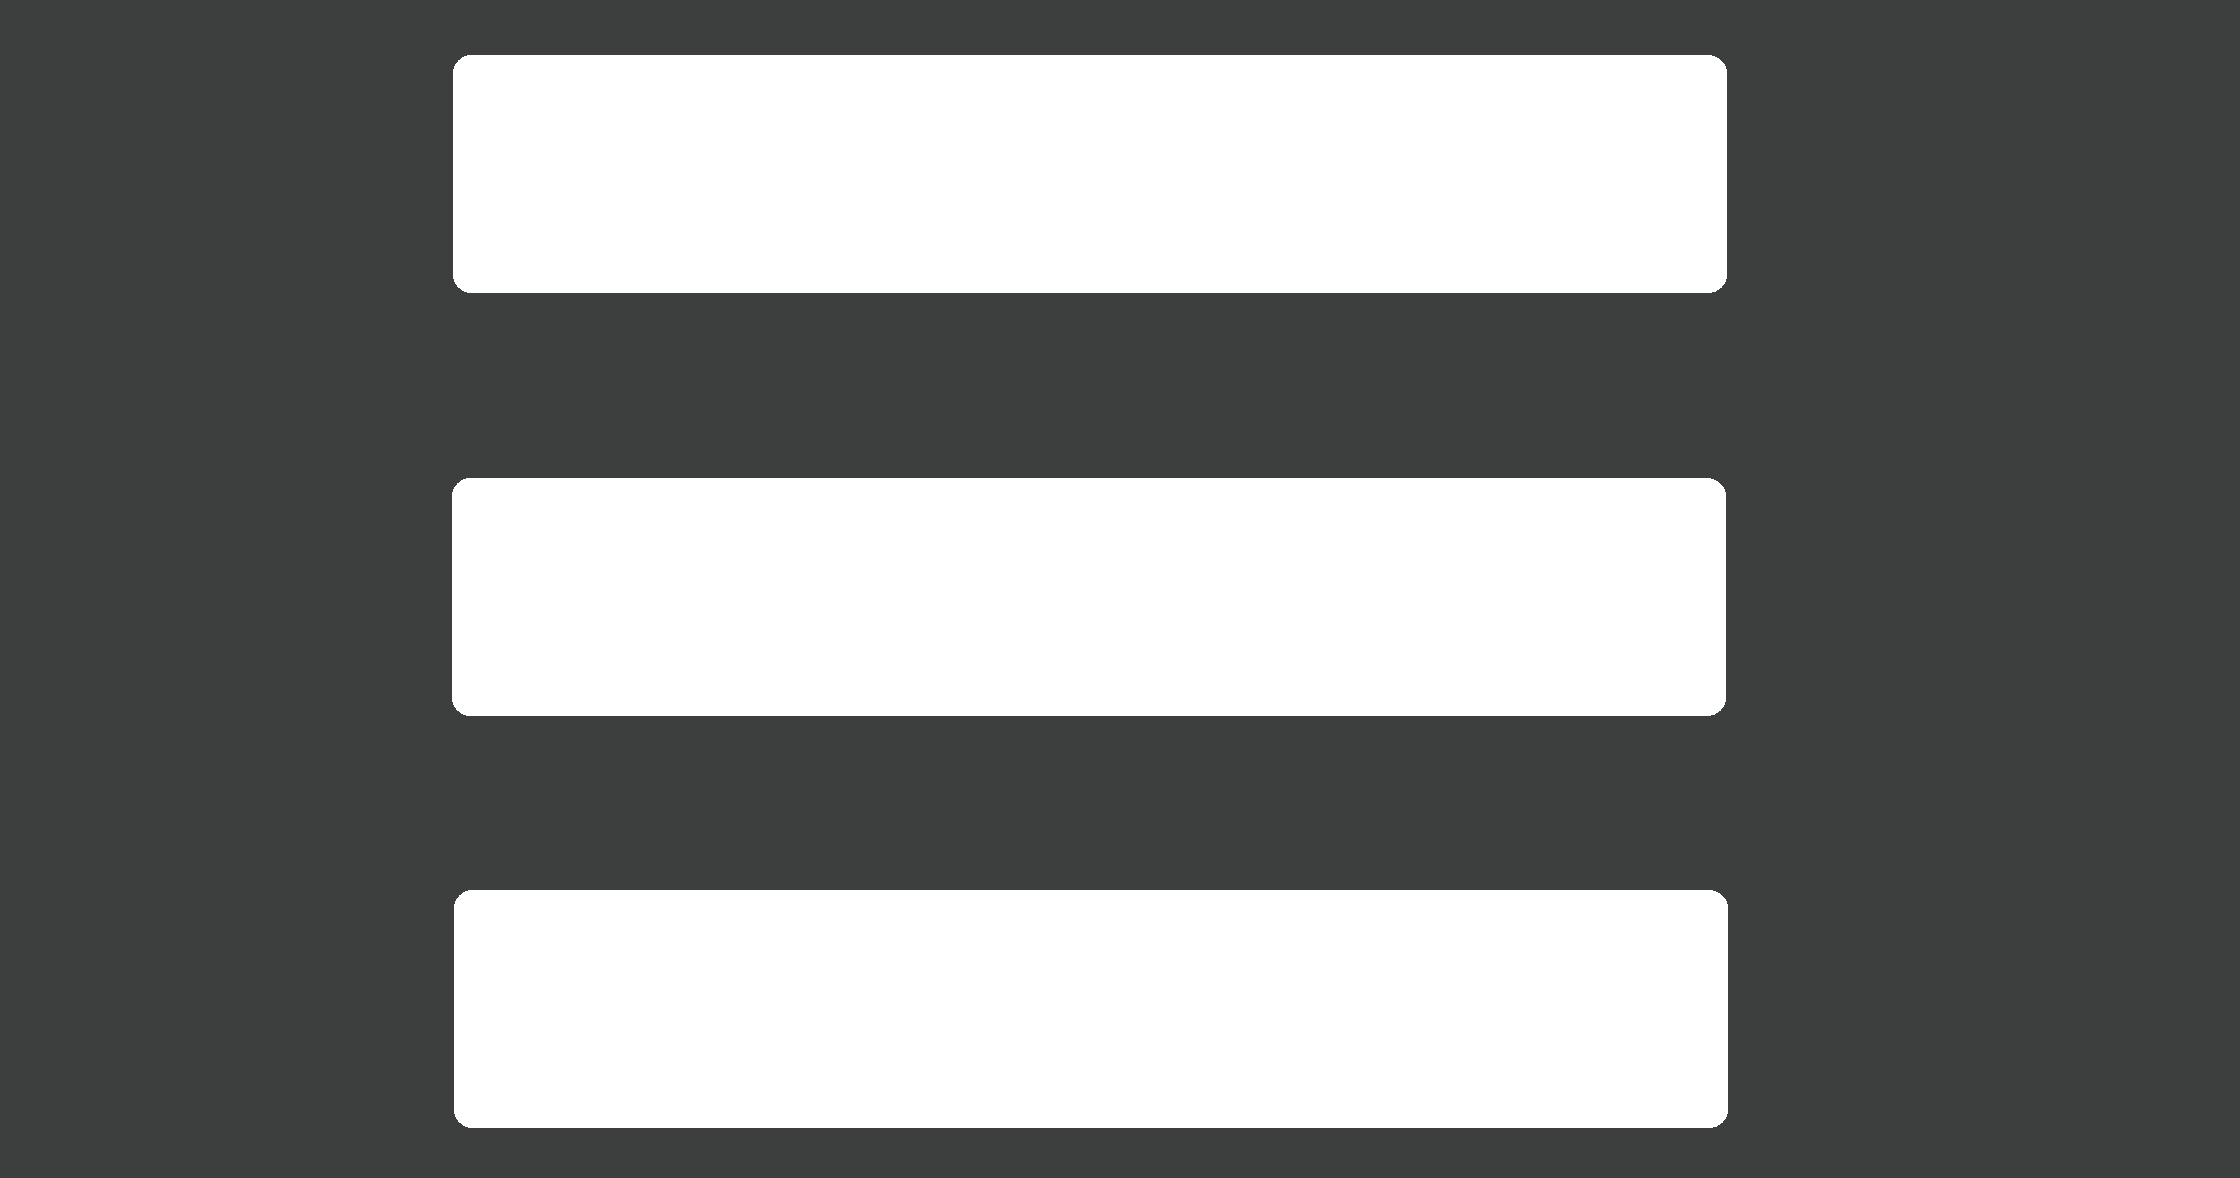
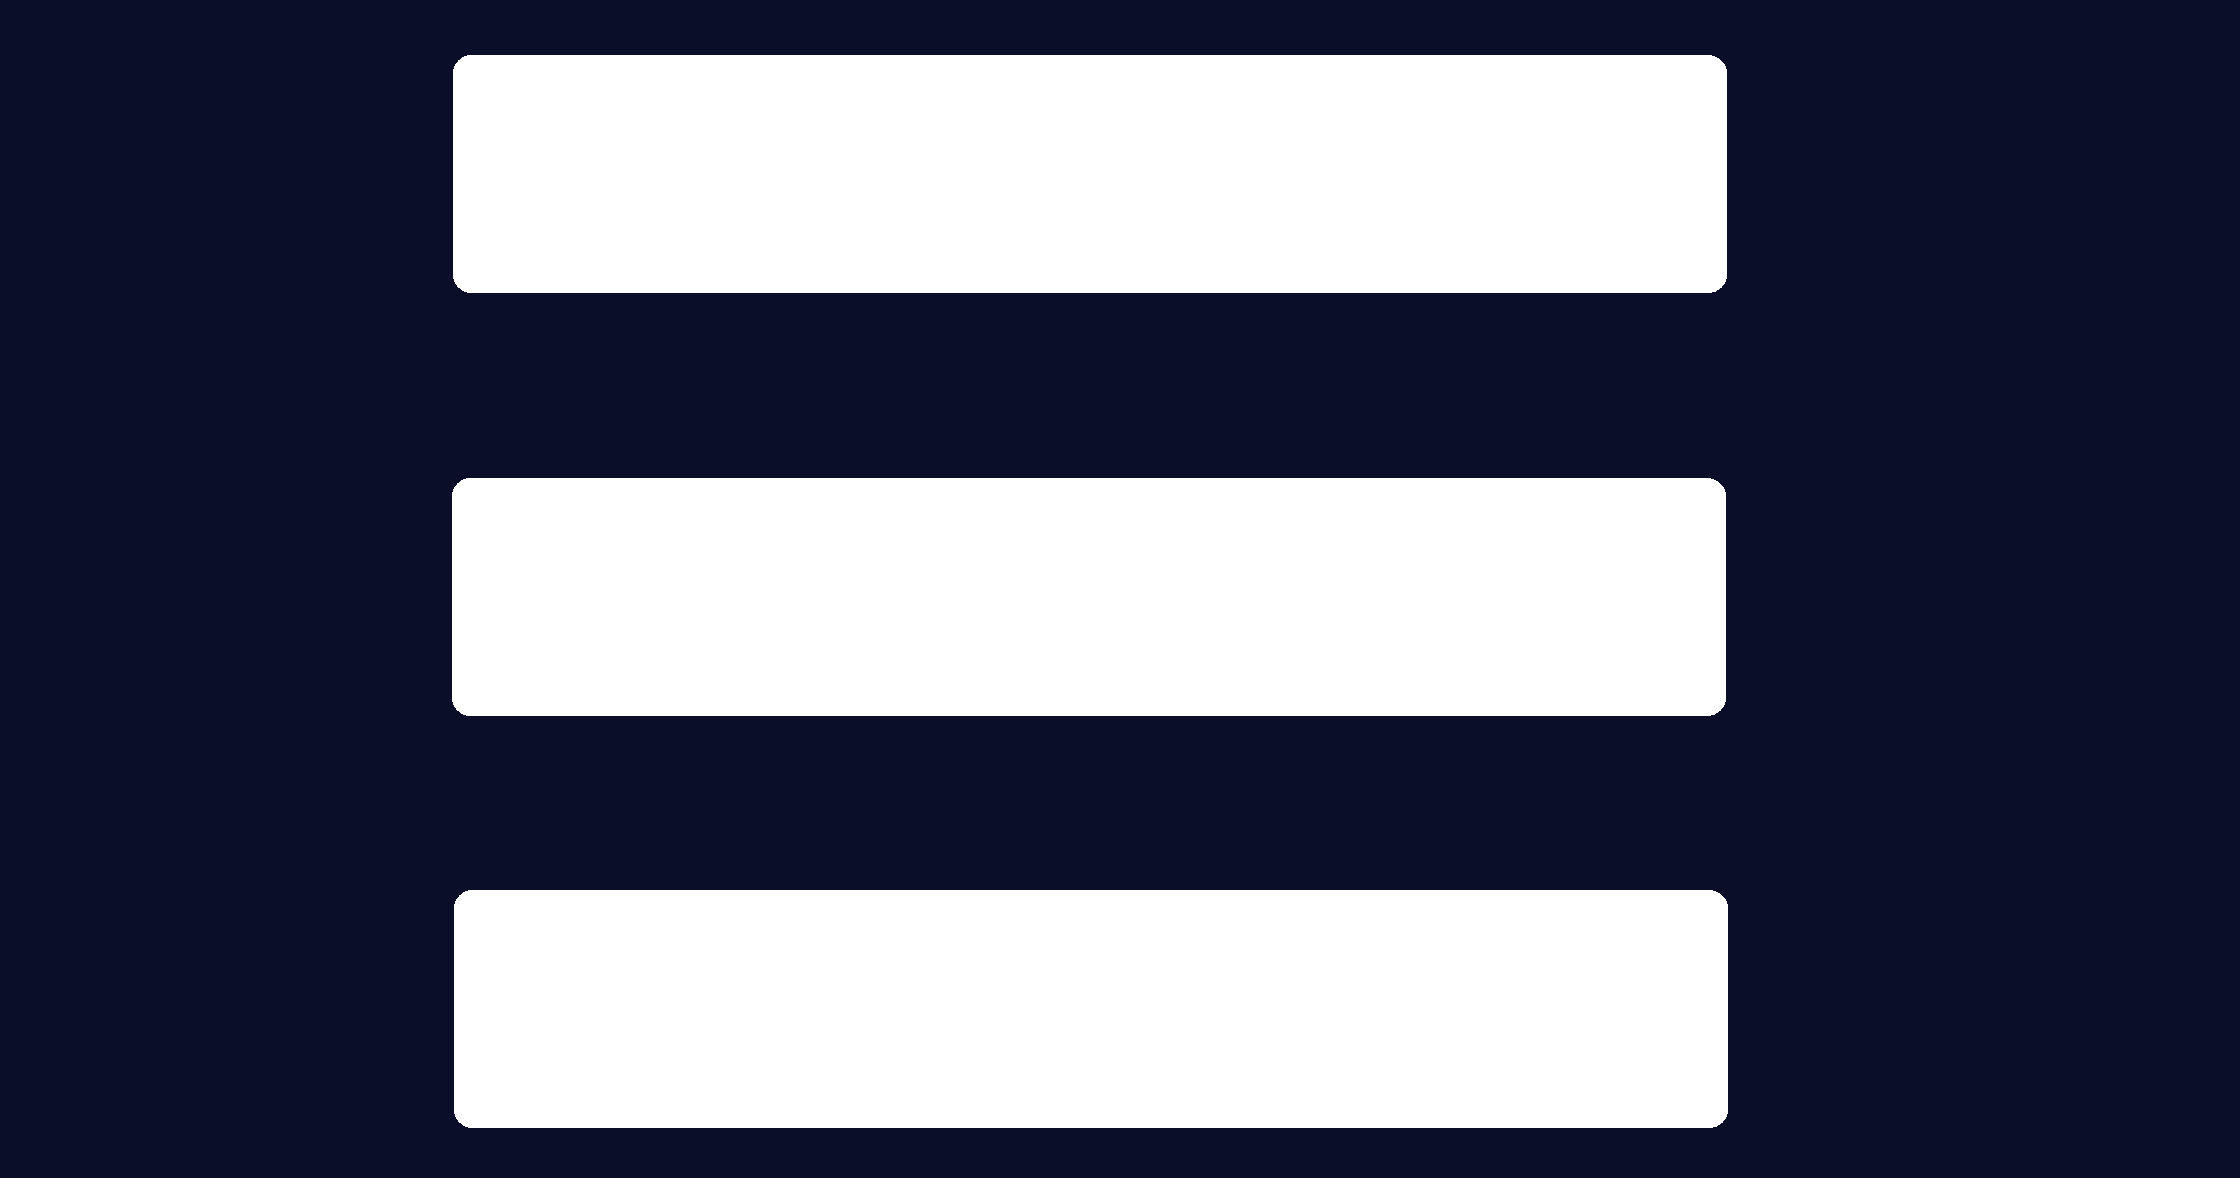
New color UI, some bug fixes, smaller header
New color UI, some bug fixes, smaller header

diff --git a/css/aos_meny_tab_styling.css b/css/aos_meny_tab_styling.css
@@ -26,7 +26,7 @@ html, body {
   height: 100px;
   transition: 0.4s;
   /*background-color: rgb(0, 0, 0);*/
-  background-color: #3D3F3F;
+  background-color: #0A0E29;
   box-sizing: border-box;
 }
 
@@ -66,13 +66,14 @@ html, body {
 .header-menu-button:hover {
   transition: all .02s ease-in-out;
   /*background-color: rgb(0, 0, 0);*/
-  background-color: #3D3F3F;
-  transform: scale(0.97);
+  background-color: none;
+  /*transform: scale(0.97);*/
   cursor: pointer;
 }
 
 .AoS-label:hover, .WF8-label:hover, .Paint-label:hover {
   /*background-color: #f2f2f2;*/
+  color: antiquewhite;
   cursor: pointer;
 }
 
@@ -115,7 +116,7 @@ html, body {
 
   .header-bar {
     padding: 0;
-    height: 90px;
+    height: 70px;
   }
 
   .header-menu {
@@ -140,8 +141,8 @@ html, body {
   }
 
   #logo {
-    width: 8rem;
-    padding: 1rem 0rem 1rem 1rem;
+    width: 7rem;
+    padding: 0.5rem 0rem 0.5rem 1rem;
   }
 
   .youTubeButton {
@@ -159,14 +160,14 @@ html, body {
 
   #mw-menubar {
     display: block;
-    width: 85px;
+    width: 75px;
     margin-right: 20px;
   }
 
   .mobile-container {
     display: inline-block;
     position: fixed;
-    top: 134px;
+    top: 114px;
     z-index: 1000;
     width: 100%;
     background-color: rgba(0, 0, 0, 0.7);
@@ -204,7 +205,7 @@ ul {
 
   top: 90px;
   width: 100%;
-  background-color: #404040;
+  background-color: #0A0E29;
   position: sticky;
   /*overflow: auto;*/
   transition: 0.4s; 
@@ -238,8 +239,8 @@ ul {
 }
 
 .menubar a:hover:not(.active) {
-  background-color: #4d4d4d;
-  color: white;
+  /*background-color: #4d4d4d;*/
+  color: antiquewhite;
 }
 
 .menubar a:focus {
@@ -257,6 +258,7 @@ ul {
     font-size: small;
     padding: 0;
     margin: 0;
+    top: 70px;
     
     /* Dirty fix disable tabs 
     pointer-events: none;
@@ -316,7 +318,11 @@ div.content {
   grid-template-columns: 1fr 1fr;
   /* grid-template-columns: auto auto auto auto; */
   grid-gap: 20px;
-  padding: 1% 17% 3% 17%;
+  /*padding: 1% 17% 3% 17%;*/
+
+  padding: 2% 2% 2% 2%;
+  margin: 2% 10% 3% 10%;
+  box-shadow: 0px 0px 7px 1px #888888;
 }
 
 .grid-container > div {
@@ -355,6 +361,7 @@ div.content {
   text-align: center;
   font-size: 20px;
   margin: 0;
+  letter-spacing: 1px;
 }
 
 .intro-text-small {
@@ -396,10 +403,24 @@ div.content {
   z-index: 1500;
 }
 
+/*.img-frame-class {
+  width: 95%;
+  height: 95%;
+  left: 2.5%;
+  overflow-x: hidden;
+  overflow-y: hidden;
+  position: fixed;
+  top: 10%;
+  border: none;
+  box-shadow: 2px 2px 6px 2px #888888;
+  background: #888888;
+  z-index: 1500;
+}*/
+
 #to-top-button-id {
   position: fixed;
   bottom: 68px;
-  right: 6%;
+  right: 3%;
   border: solid white 1px;
   padding: 15px;
   background-image: linear-gradient(to right, #333333 0%, #666666 71%);
@@ -451,7 +472,7 @@ div.content {
   }*/
 
   div.content {
-    margin: 65px 0 0 0;
+    margin: 45px 0 0 0;
     width: 100%;
   }
 
@@ -465,7 +486,8 @@ div.content {
   }
 
   .grid-container {
-    padding: 1% 7% 3% 7%;
+    /*padding: 1% 7% 3% 7%;*/
+    margin: 1% 5% 5% 5%;
   }
 
   .intro-text {
@@ -477,6 +499,7 @@ div.content {
     width: 48%;
     padding: 2.5%;
     font-size: x-small;
+    letter-spacing: 0;
   }
 
   .intro-text-small {

diff --git a/aos_menu_tab.html b/aos_menu_tab.html
@@ -95,9 +95,12 @@
 				<span class="VS">VS</span> 
 				Khorne-Beastmen
 			</div>
+
+			<div class="img-frame"></div>
+
 			<div class="grid-container">
 				<div class="grid-content-wide">
-					<img src="images/aos/intro-sylvaneth.png" class="grid-content-media">
+					<img src="images/aos/intro-sylvaneth.png" data-src="images/aos/intro-sylvaneth.png" class="grid-content-media">
 				</div>
 				<div class="grid-content-wide">
 					<p class="intro-text">
@@ -114,7 +117,8 @@
 					<div class="video-frame"></div>
 				</div>
 				<div class="grid-content-wide">
-					<img src="images/aos/chaos-beasts.JPG" class="grid-content-media"></div>
+					<img src="images/aos/chaos-beasts.JPG" class="grid-content-media">
+				</div>
 				<!--<div class="grid-content-right">Chaos join together<br></div>-->
 				<div class="grid-content-wide">
 					<img src="images/aos/sylvaneth.png" class="grid-content-media"></div>
@@ -125,7 +129,7 @@
 				<div class="grid-content-left">
 					<img src="images/aos/chaos-lords.png" class="grid-content-media"></div>
 				<div class="grid-content-right">
-					<img src="images/aos/stormcasts.png" class="grid-content-media"></div>
+					<img src="images/aos/stormcasts.png" data-src="images/aos/stormcasts.png" class="grid-content-media"></div>
 			</div>
 		</div>
 
@@ -416,6 +420,9 @@
 
 	$(document).ready(function() {
 
+		/* Call resize to start with proper header */
+		headerResize();
+
 		/* Mobile Web menu toggle on click */
 		if(/Android|webOS|iPhone|iPad|iPod|BlackBerry|Windows Phone/i.test(navigator.userAgent)) {
 			$("#mw-menubar").toggle(
@@ -448,7 +455,7 @@
 			$('html, body').animate({scrollTop: '0px'}, 300);
 		});
 
-		/* Pop-up frame */
+		/* Pop-up frame - youtube */
 		$(".intro-button").click(function () {
 		    var $this = $(this);
 		    var $iframe = $("<iframe>").attr("src", $this.data("link")); /* snabbare att lägga på css här?*/
@@ -456,6 +463,14 @@
 		    $(".video-frame").append($iframe);
 		    /*$iframe.wrap("<div class='class-video'>");*/
 		});
+
+		/* Pop-up frame - image 
+		$(".grid-content-media").click(function () {
+		    var $this = $(this);
+		    var $iframe = $("<iframe>").attr("src", $this.data("src")); 
+		    $iframe.addClass("img-frame-class");
+		    $(".img-frame").append($iframe);
+		});*/
 
 		/* Checks if mouse is outside frame */
 		$('.video-frame').hover(function() { 

diff --git a/css/index_styling.css b/css/index_styling.css
@@ -30,7 +30,7 @@ html, body {
   box-shadow: 0 1px 0px rgba(0,0,0,.12), 0 1px 2px rgba(0,0,0,.24);
   height: 100px;
   transition: 0.4s;
-  background-color: #3D3F3F;
+  background-color: #0A0E29;
 }
 
 #logo {
@@ -68,7 +68,7 @@ html, body {
 .header-menu-button:hover {
   transition: all .02s ease-in-out;
   /*background-color: rgb(0, 0, 0);*/
-  background-color: #3D3F3F;
+  background-color: none;
   transform: scale(0.97);
   cursor: pointer;
 }
@@ -120,7 +120,7 @@ html, body {
 
   .header-bar {
     padding: 0;
-    height: 90px;
+    height: 70px;
   }
 
   .header-menu {
@@ -146,7 +146,7 @@ html, body {
 
   #logo {
     width: 8rem;
-    padding: 1rem 0rem 1rem 1rem;
+    padding: 0.5rem 0rem 0.5rem 1rem;
   }
 
   .youTubeButton {
@@ -164,14 +164,14 @@ html, body {
 
   #mw-menubar {
     display: block;
-    width: 85px;
+    width: 75px;
     margin-right: 20px;
   }
 
   .mobile-container {
     display: inline-block;
     position: fixed;
-    top: 90px;
+    top: 70px;
     z-index: 1000;
     width: 100%;
     background-color: rgba(0, 0, 0, 0.7);
@@ -281,12 +281,12 @@ html, body {
 @media (max-width: 980px) {
 
   .content {
-    background-color: #3D3F3F;
+    background-color: #0A0E29;
   }
 
   #intro-video {
     width: 100%;
-    padding: 90px 0 15px 0;
+    padding: 70px 0 15px 0;
   }
 
   #intro-banner-container {
@@ -294,7 +294,7 @@ html, body {
     position: relative;
     background: white;
     padding: 0;
-    background-color: #3D3F3F;
+    background-color: #0A0E29;
   }
 
   h1 {
@@ -359,7 +359,7 @@ html, body {
     left: 0;
     right: 0;
     text-align: center;
-    bottom: 100px;
+    bottom: 140px;
     background: linear-gradient(to right, #dc9014 0%, #f6e27e 50%, #dc9014 100%);
     width: 200px;
     border: none;
@@ -375,7 +375,7 @@ html, body {
     /*display: grid;
     grid-template-columns: 1fr 1fr;
     grid-gap: 20px;*/
-    padding: 1% 2% 20% 2%;
+    padding: 1% 2% 15% 2%;
   }
 
   /*.intro-grid-content {
